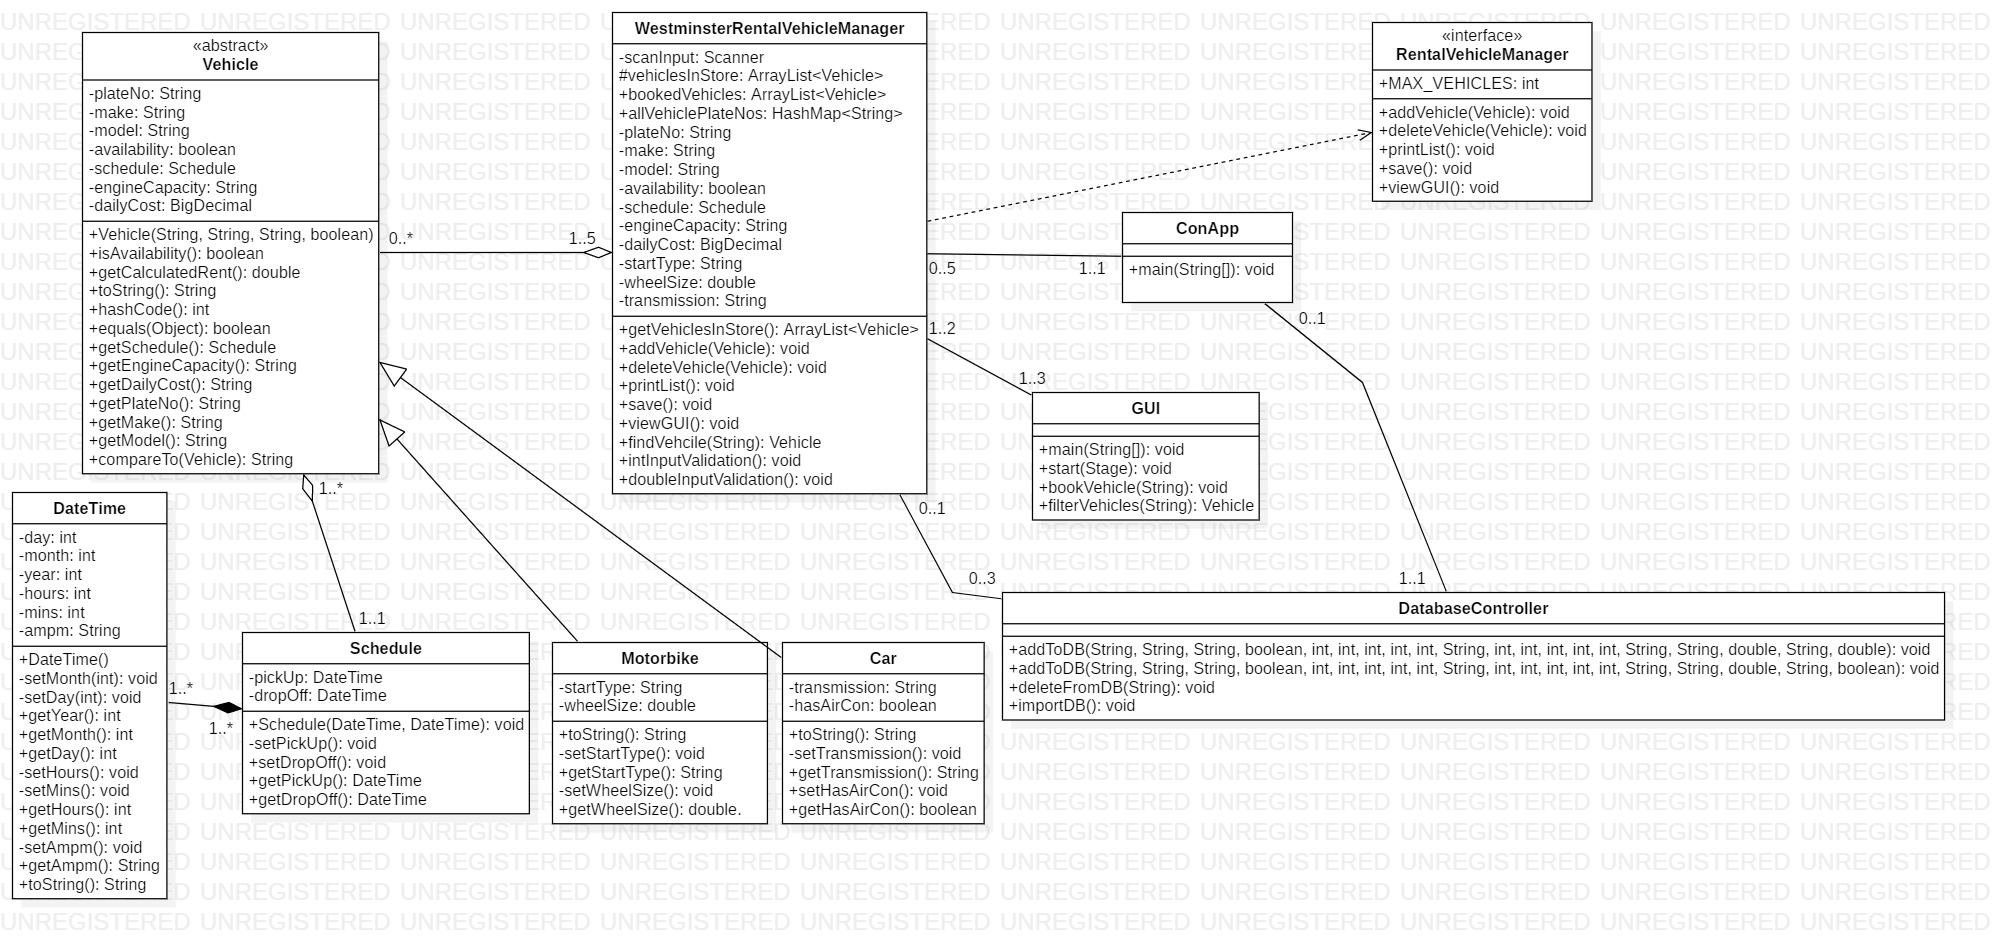
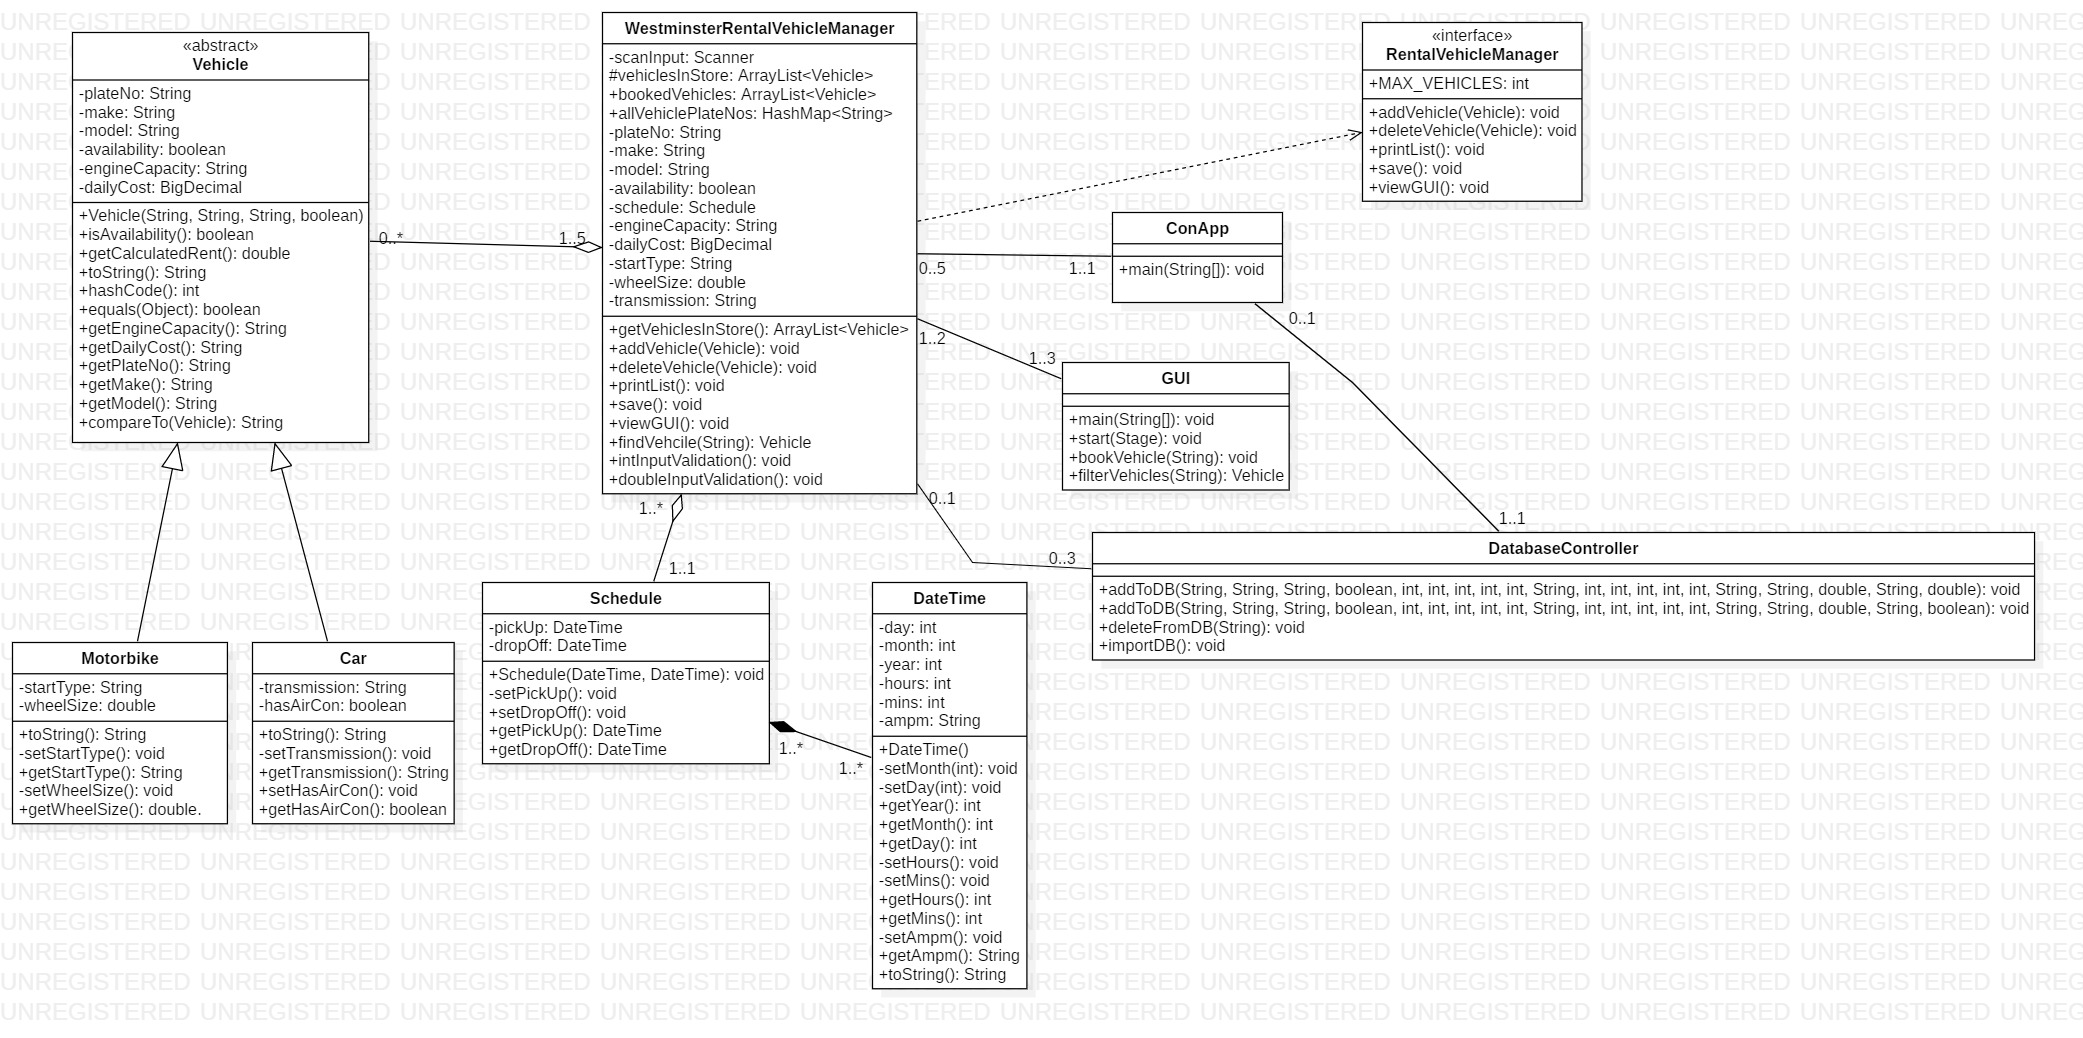
Made change to structure of program- Design & code

Changed region(s): [[0.0, 0.0, 0.9955, 0.9789], [0.6533, 0.0, 0.8088, 0.2141], [0.1867, 0.4589, 0.2178, 0.4895]]

diff --git a/src/lk/dinuka/VehicleRentalSystem/Model/Vehicle.java b/src/lk/dinuka/VehicleRentalSystem/Model/Vehicle.java
@@ -11,7 +11,6 @@ public abstract class Vehicle implements Comparable<Vehicle> {
     private String engineCapacity;
     private BigDecimal dailyCost;
     private String type;
-    private Schedule schedule;                          //Schedule is added when booking!!!!!!!!!!!!!!!!!!
 
     public static int count = 0;
 
@@ -37,7 +36,6 @@ public abstract class Vehicle implements Comparable<Vehicle> {
                 ", engineCapacity='" + engineCapacity + '\'' +
                 ", dailyCost=" + dailyCost +
                 ", type='" + type + '\'' +
-                ", schedule=" + schedule +
                 '}';
     }
 
@@ -59,10 +57,6 @@ public abstract class Vehicle implements Comparable<Vehicle> {
 
     public boolean isAvailability() {
         return availability;
-    }
-
-    public Schedule getSchedule() {
-        return schedule;
     }
 
     public String getEngineCapacity() {
@@ -91,14 +85,14 @@ public abstract class Vehicle implements Comparable<Vehicle> {
                 Objects.equals(plateNo, vehicle.plateNo) &&
                 Objects.equals(make, vehicle.make) &&
                 Objects.equals(model, vehicle.model) &&
-                Objects.equals(schedule, vehicle.schedule) &&
                 Objects.equals(engineCapacity, vehicle.engineCapacity) &&
-                Objects.equals(dailyCost, vehicle.dailyCost);
+                Objects.equals(dailyCost, vehicle.dailyCost) &&
+                Objects.equals(type, vehicle.type);
     }
 
     @Override
     public int hashCode() {
-        return Objects.hash(plateNo, make, model, availability, schedule, engineCapacity, dailyCost);
+        return Objects.hash(plateNo, make, model, availability, engineCapacity, dailyCost, type);
     }
 
     @Override

diff --git a/src/lk/dinuka/VehicleRentalSystem/Controller/WestminsterRentalVehicleManager.java b/src/lk/dinuka/VehicleRentalSystem/Controller/WestminsterRentalVehicleManager.java
@@ -165,6 +165,7 @@ public class WestminsterRentalVehicleManager implements RentalVehicleManager {
     public void save() {        //saves the information of vehicles entered into the system
         //Rewrite the file every time a change is made.
 
+
     }
 
     @Override
@@ -195,13 +196,13 @@ public class WestminsterRentalVehicleManager implements RentalVehicleManager {
 
         System.out.println("\nEnter Model:");
         System.out.print(">");
-        make = scanInput.nextLine();
+        model = scanInput.nextLine();
 
         availability = true;        //availability is set to true when vehicle data is entered to the system;
 
         System.out.println("\nEnter Engine Capacity:");
         System.out.print(">");
-        make = scanInput.nextLine();
+        engineCapacity = scanInput.nextLine();
 
         System.out.println("Enter Daily cost (in $):");
         System.out.print(">$");

diff --git a/src/lk/dinuka/VehicleRentalSystem/Controller/GUIController.java b/src/lk/dinuka/VehicleRentalSystem/Controller/GUIController.java
@@ -1,0 +1,6 @@
+package lk.dinuka.VehicleRentalSystem.Controller;
+
+public class GUIController {
+
+    //add booking method with schedule initialization here!!!!
+}
